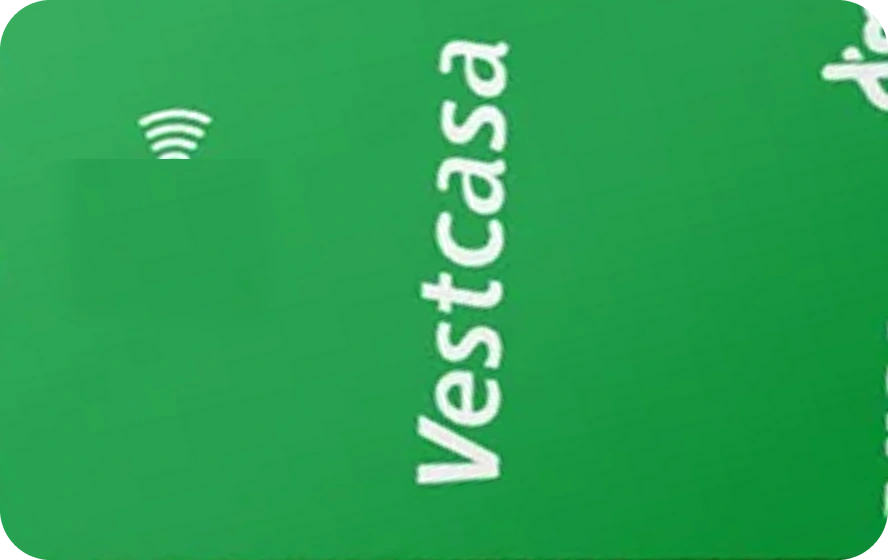
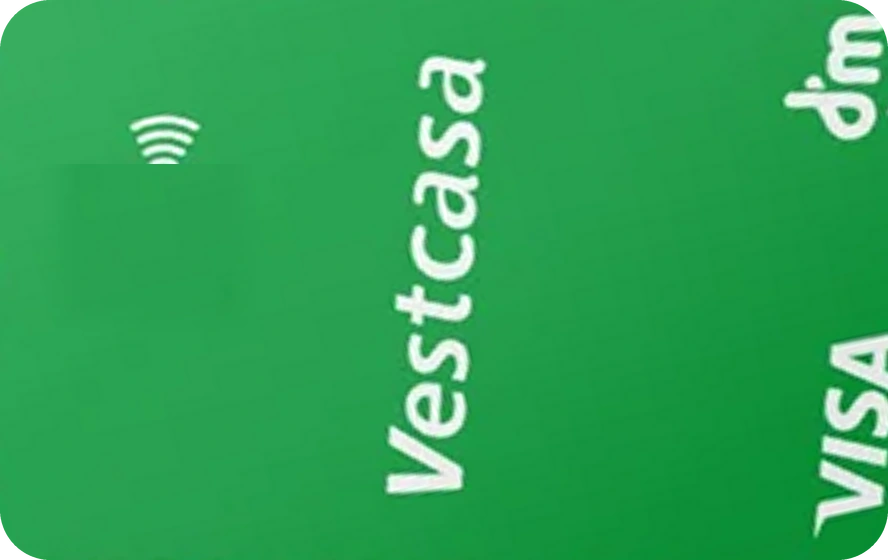
Fluxo PF: Vestcasa com o cartao inteiro (nao corta a parte de baixo)

diff --git a/pf.js b/pf.js
@@ -362,7 +362,7 @@
   // Bancos usam assets/bancos/<id>.png; lojas usam assets/emissores/<id>.png (troque o arquivo pelo logo oficial quando quiser).
   const EMISSORES = [['bradesco', 'Bradesco', 'b'], ['nubank', 'Nubank', 'b'], ['itau', 'Itaú', 'b'], ['santander', 'Santander', 'b'], ['bb', 'Banco do Brasil', 'b'], ['caixa', 'Caixa', 'b'], ['inter', 'Inter', 'b'], ['c6', 'C6 Bank', 'b'], ['mercadopago', 'Mercado Pago', 'b'], ['brb', 'BRB', 'b'], ['digio', 'Digio', 'b'], ['picpay', 'PicPay', 'b'], ['carrefour', 'Carrefour', 'e'], ['renner', 'Renner', 'e'], ['marisa', 'Marisa', 'e'], ['vestcasa', 'Vest Casa', 'e'], ['dmcard', 'DM Card', 'e'], ['maiscard', 'Cartão Mais', 'e'], ['dibs', 'Dibs', 'e'], ['negreiros', 'Mercado Negreiros', 'e'], ['fernando', 'Armarinhos Fernando', 'e'], ['amazon', 'Amazon', 'e'], ['outro', 'Outro', '']];
   const emissorDe = c => { if (!c) return ''; if (c.emissor) return c.emissor; const n = norm(c.nome || ''), pal = x => new RegExp('(^|[^a-z0-9])' + x + '([^a-z0-9]|$)').test(n); return /bradesco/.test(n) ? 'bradesco' : (/nubank/.test(n) || pal('nu')) ? 'nubank' : /itau/.test(n) ? 'itau' : /santander/.test(n) ? 'santander' : (/brasil/.test(n) || pal('bb')) ? 'bb' : /caixa/.test(n) ? 'caixa' : pal('inter') ? 'inter' : pal('c6') ? 'c6' : /mercado *pago/.test(n) ? 'mercadopago' : pal('brb') ? 'brb' : /digio/.test(n) ? 'digio' : /picpay/.test(n) ? 'picpay' : /carrefour/.test(n) ? 'carrefour' : /renner/.test(n) ? 'renner' : /marisa/.test(n) ? 'marisa' : /vest *casa/.test(n) ? 'vestcasa' : (pal('dm') || /dm *card/.test(n)) ? 'dmcard' : /mais/.test(n) ? 'maiscard' : /dibs/.test(n) ? 'dibs' : /negreiros/.test(n) ? 'negreiros' : /fernando/.test(n) ? 'fernando' : /amazon/.test(n) ? 'amazon' : ''; };
-  const imagemDe = c => { if (!c) return ''; if (c.imagem) return c.imagem; const n = norm(c.nome || ''); if (emissorDe(c) === 'nubank' && /master/i.test(c.bandeira || '')) return 'assets/cartoes/nubank-mastercard.webp?v=1'; if (emissorDe(c) === 'caixa' && /visa/i.test(c.bandeira || '')) return 'assets/cartoes/caixa-visa.webp?v=1'; if (emissorDe(c) === 'brb' && /visa/i.test(c.bandeira || '')) return 'assets/cartoes/brb-visa.webp?v=1'; if (emissorDe(c) === 'digio' && /visa/i.test(c.bandeira || '')) return 'assets/cartoes/digio-visa.webp?v=1'; if (emissorDe(c) === 'amazon' && /master/i.test(c.bandeira || '')) return 'assets/cartoes/amazon-mastercard.webp?v=2'; if (emissorDe(c) === 'negreiros') return 'assets/cartoes/negreiros.webp?v=1'; if (emissorDe(c) === 'vestcasa') return 'assets/cartoes/vestcasa.webp?v=1'; if (emissorDe(c) === 'fernando') return 'assets/cartoes/fernando.webp?v=1'; if (emissorDe(c) === 'dmcard') return 'assets/cartoes/dmcard.webp?v=1'; if (emissorDe(c) === 'renner') return 'assets/cartoes/renner.webp?v=1'; if (emissorDe(c) === 'marisa') return 'assets/cartoes/marisa.webp?v=1'; if (emissorDe(c) === 'dibs') return 'assets/cartoes/dibs.webp?v=1'; return /bradesco/.test(n) && /disney/.test(n) ? 'assets/cartoes/bradesco-disney.webp?v=4' : (/bradesco/.test(n) && /(^|[^a-z0-9])neo([^a-z0-9]|$)/.test(n) ? 'assets/cartoes/bradesco-neo.webp?v=4' : ''); };
+  const imagemDe = c => { if (!c) return ''; if (c.imagem) return c.imagem; const n = norm(c.nome || ''); if (emissorDe(c) === 'nubank' && /master/i.test(c.bandeira || '')) return 'assets/cartoes/nubank-mastercard.webp?v=1'; if (emissorDe(c) === 'caixa' && /visa/i.test(c.bandeira || '')) return 'assets/cartoes/caixa-visa.webp?v=1'; if (emissorDe(c) === 'brb' && /visa/i.test(c.bandeira || '')) return 'assets/cartoes/brb-visa.webp?v=1'; if (emissorDe(c) === 'digio' && /visa/i.test(c.bandeira || '')) return 'assets/cartoes/digio-visa.webp?v=1'; if (emissorDe(c) === 'amazon' && /master/i.test(c.bandeira || '')) return 'assets/cartoes/amazon-mastercard.webp?v=2'; if (emissorDe(c) === 'negreiros') return 'assets/cartoes/negreiros.webp?v=1'; if (emissorDe(c) === 'vestcasa') return 'assets/cartoes/vestcasa.webp?v=2'; if (emissorDe(c) === 'fernando') return 'assets/cartoes/fernando.webp?v=1'; if (emissorDe(c) === 'dmcard') return 'assets/cartoes/dmcard.webp?v=1'; if (emissorDe(c) === 'renner') return 'assets/cartoes/renner.webp?v=1'; if (emissorDe(c) === 'marisa') return 'assets/cartoes/marisa.webp?v=1'; if (emissorDe(c) === 'dibs') return 'assets/cartoes/dibs.webp?v=1'; return /bradesco/.test(n) && /disney/.test(n) ? 'assets/cartoes/bradesco-disney.webp?v=4' : (/bradesco/.test(n) && /(^|[^a-z0-9])neo([^a-z0-9]|$)/.test(n) ? 'assets/cartoes/bradesco-neo.webp?v=4' : ''); };
   function emissorLogo(id, z) {
     z = z || 24; const e = EMISSORES.find(x => x[0] === id);
     if (!e || e[2] === '') return bancoLogo('outro', z);
